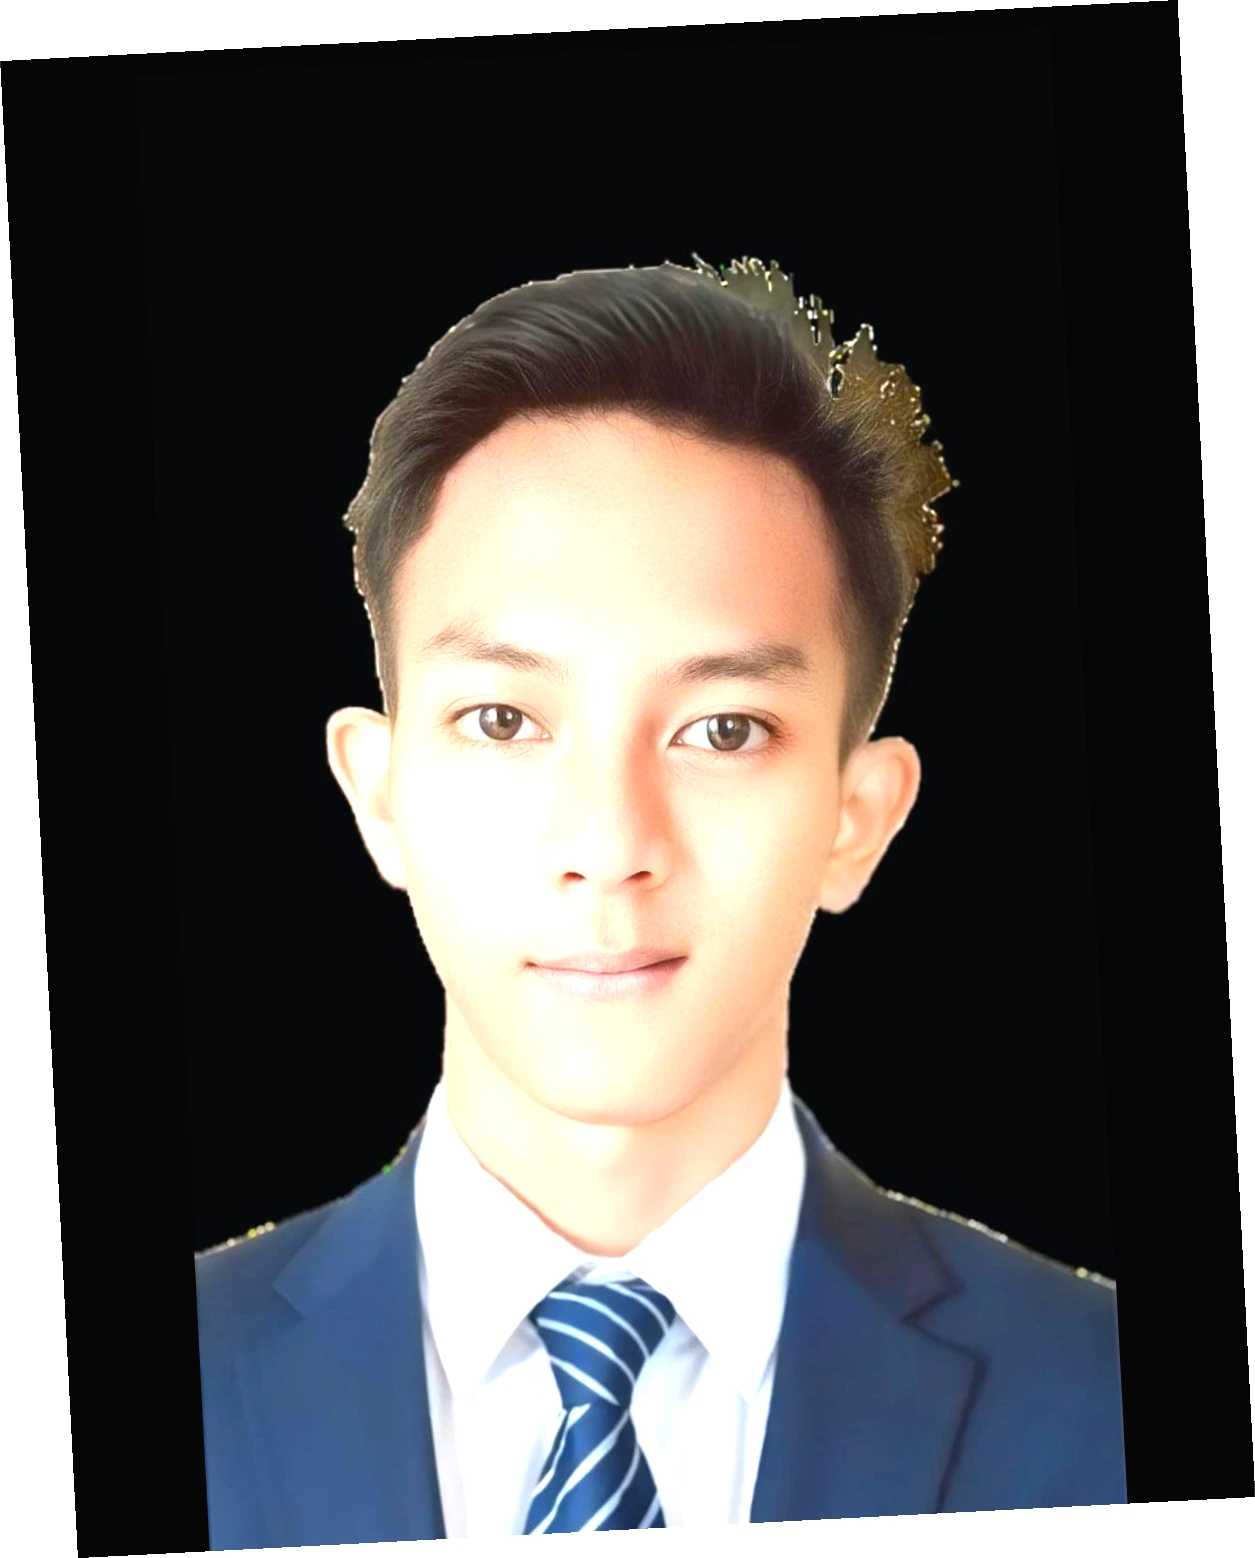
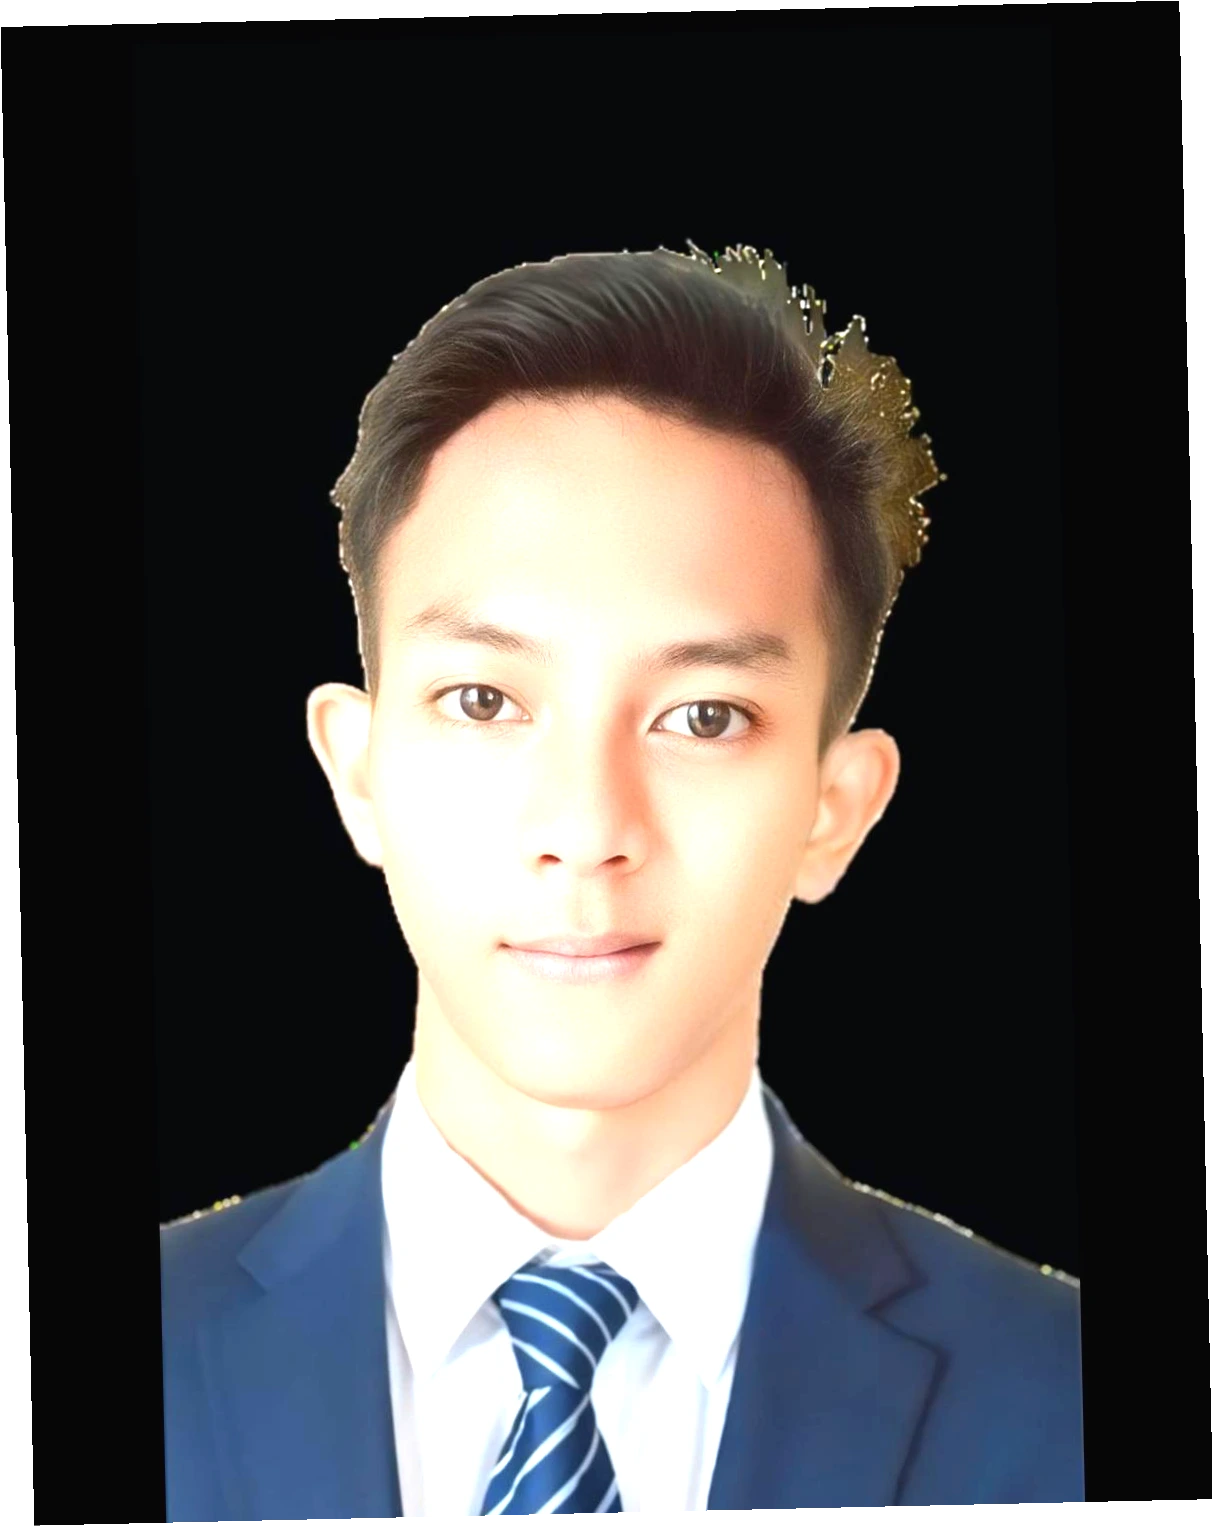
update

diff --git a/src/components/Hero.jsx b/src/components/Hero.jsx
@@ -42,12 +42,14 @@ export default function Hero() {
               src="/profil1.webp"
               alt="Foto profil Bima Wiryadi Praja"
               loading="lazy"
-              initial={{ y: 40, opacity: 0 }}
-              animate={{ y: 0, opacity: 0.8 }}
+              initial={{ x: -60, opacity: 0 }}
+              animate={{ x: 0, opacity: 0.6 }}
               transition={{ duration: 1 }}
-              className="block md:absolute md:block md:left-0 md:top-0 w-full md:w-1/2 h-auto max-h-[300px] md:h-full object-cover object-center grayscale brightness-100 z-10 mt-6 md:mt-0 rounded-xl"
+              className="block md:absolute md:block md:left-0 md:top-0 w-full md:w-1/2 h-auto md:h-full object-cover object-center grayscale brightness-100 z-10 mt-6 md:mt-0"
+              style={{
+                mixBlendMode: "lighten",
+              }}
             />
-
         </picture>
 
         {/* Overlay hitam transparan seluruh background */}
